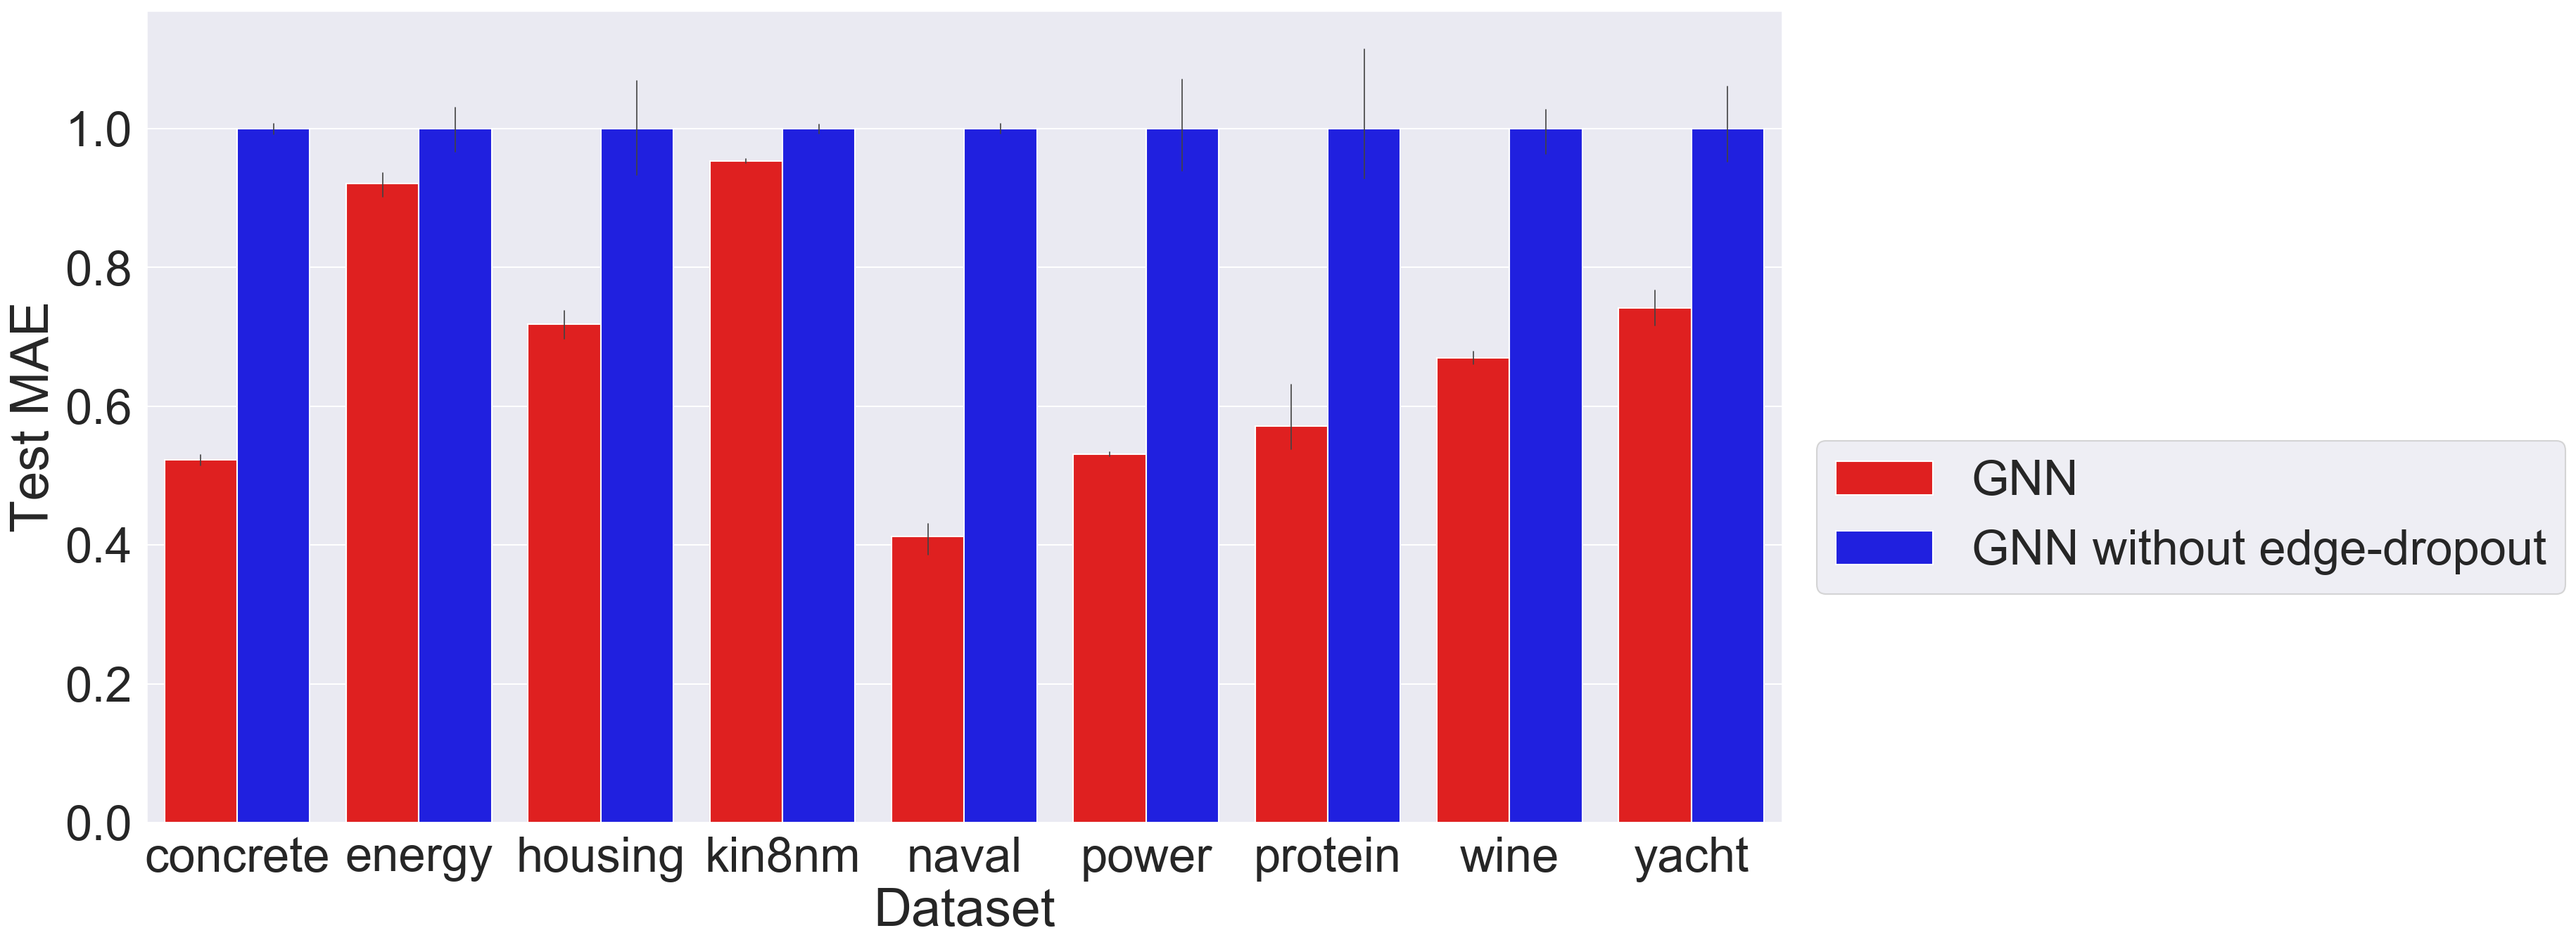
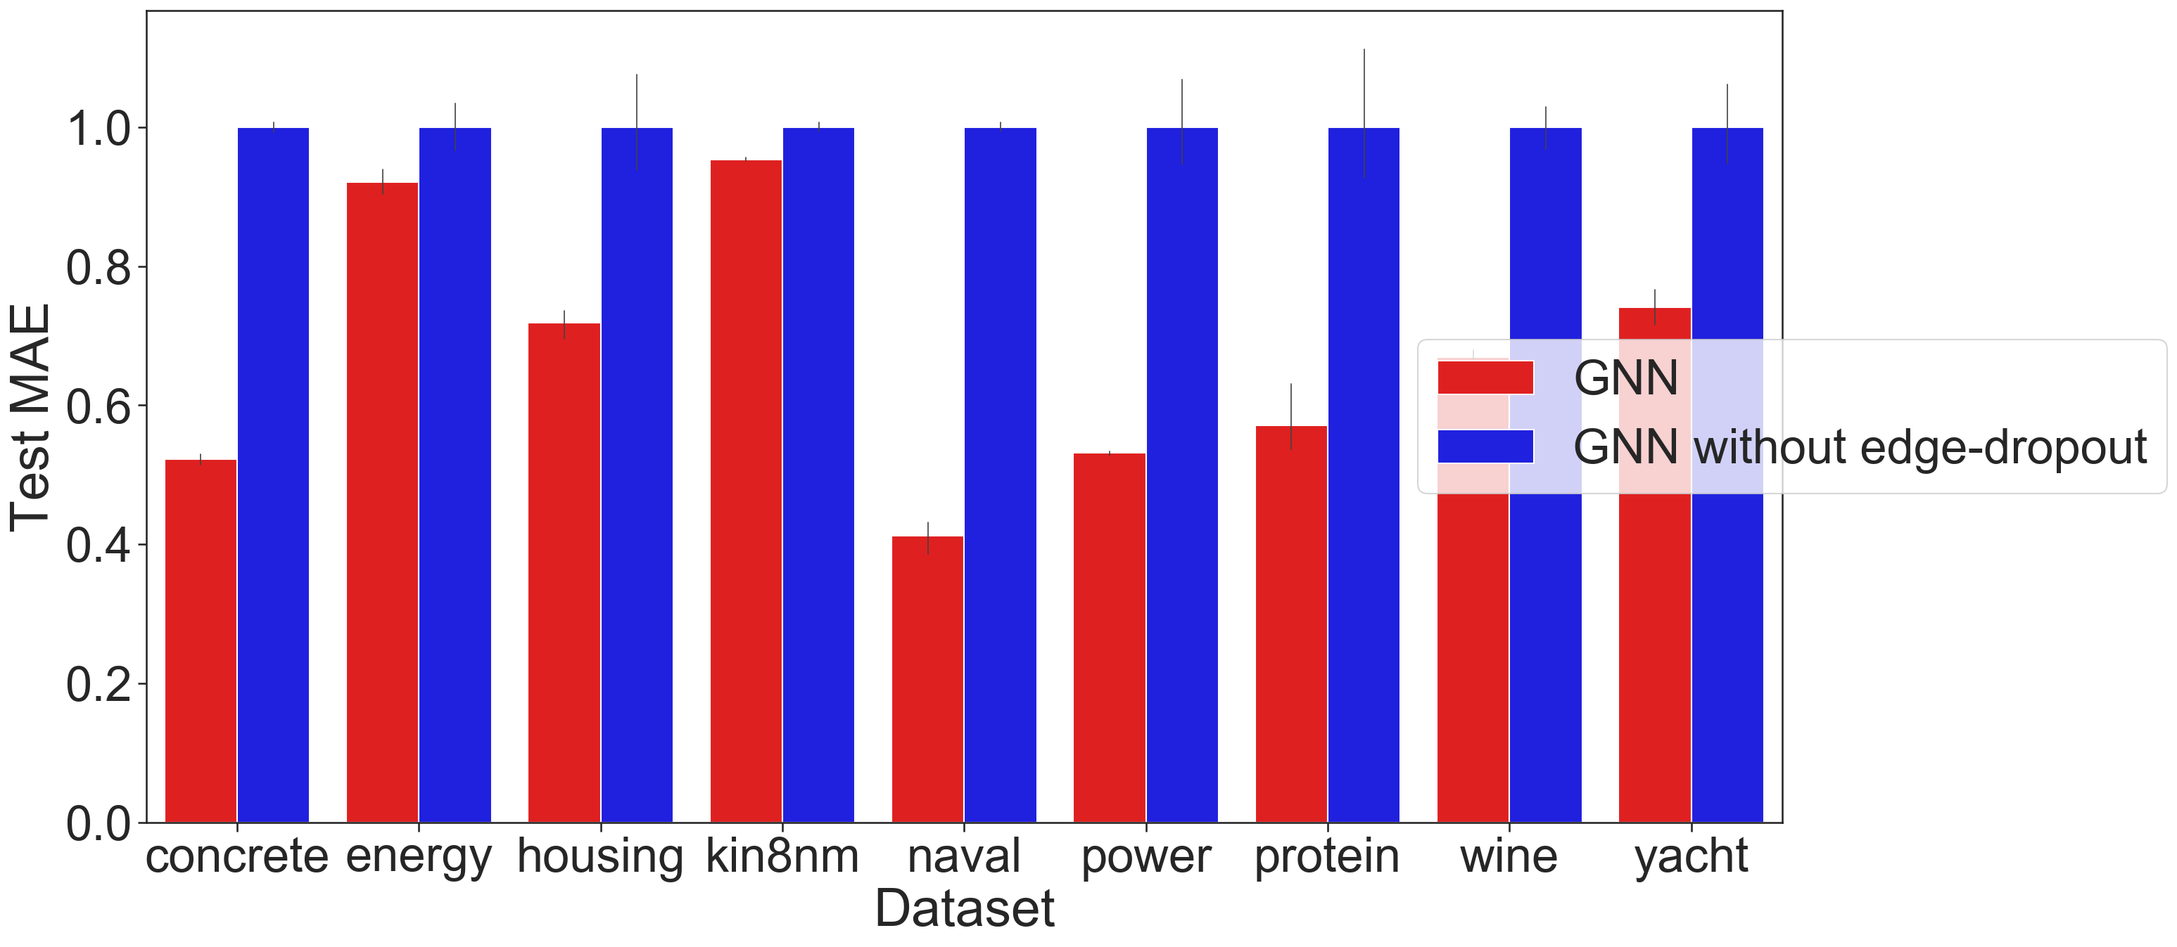
fix bugs in barplot

diff --git a/barplot_uci_results.py b/barplot_uci_results.py
@@ -80,9 +80,8 @@ for method,method_name in zip(methods,method_names):
 df = pd.DataFrame(data=data)
 
 import seaborn as sns
-sns.set(style="ticks")
+sns.set(style="ticks", font_scale=3)
 plt.figure(figsize=(20,10))
-sns.set(font_scale=3)
 ax = sns.barplot(x="Dataset", y="Test MAE", hue="Method", data=df, palette=colors,
 				 errwidth=0.8)
 plt.legend(loc='right', bbox_to_anchor=(1.25, 0.5), ncol=1)
